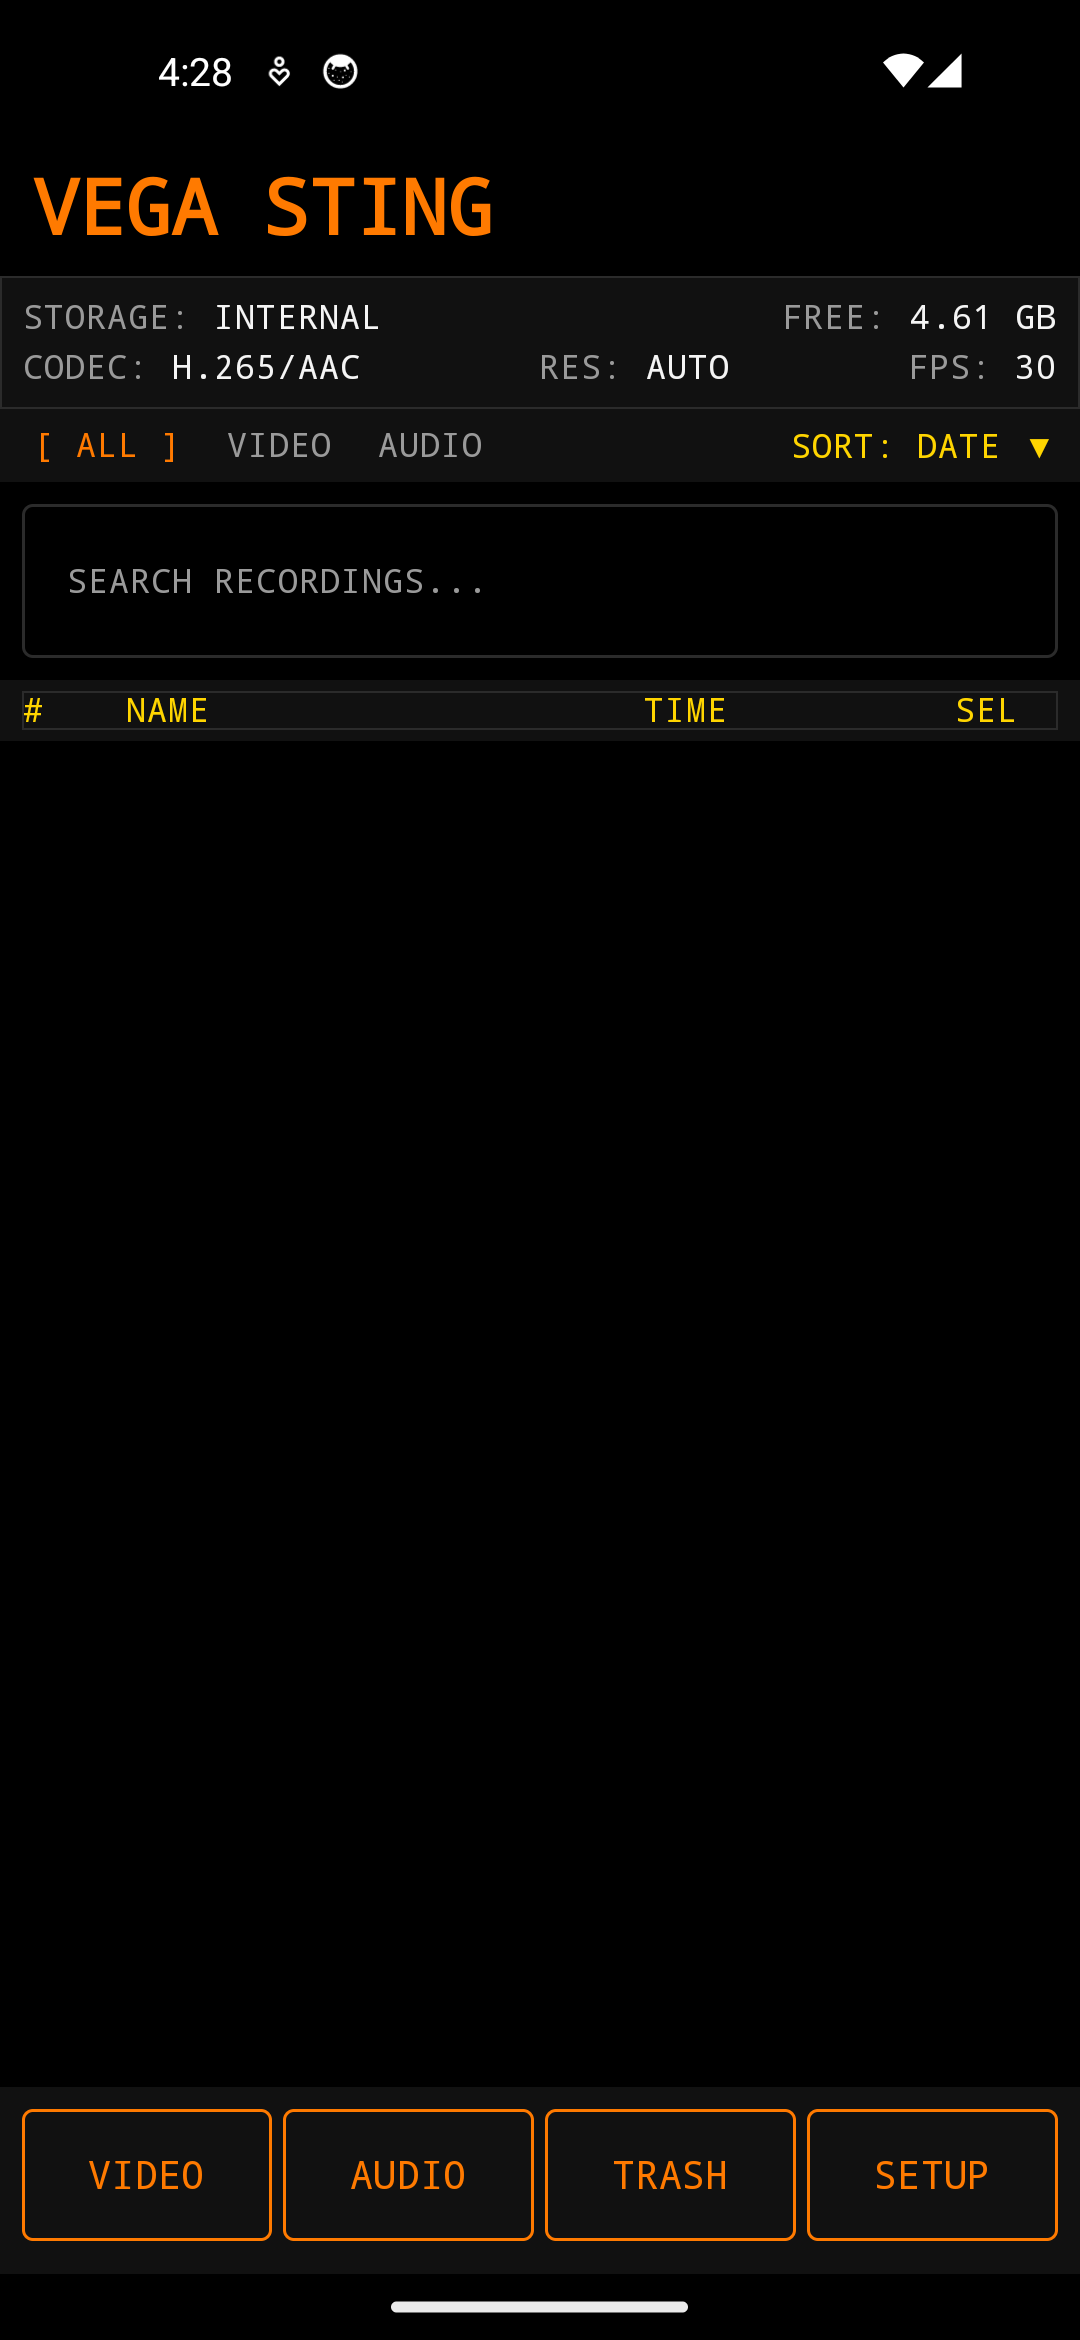
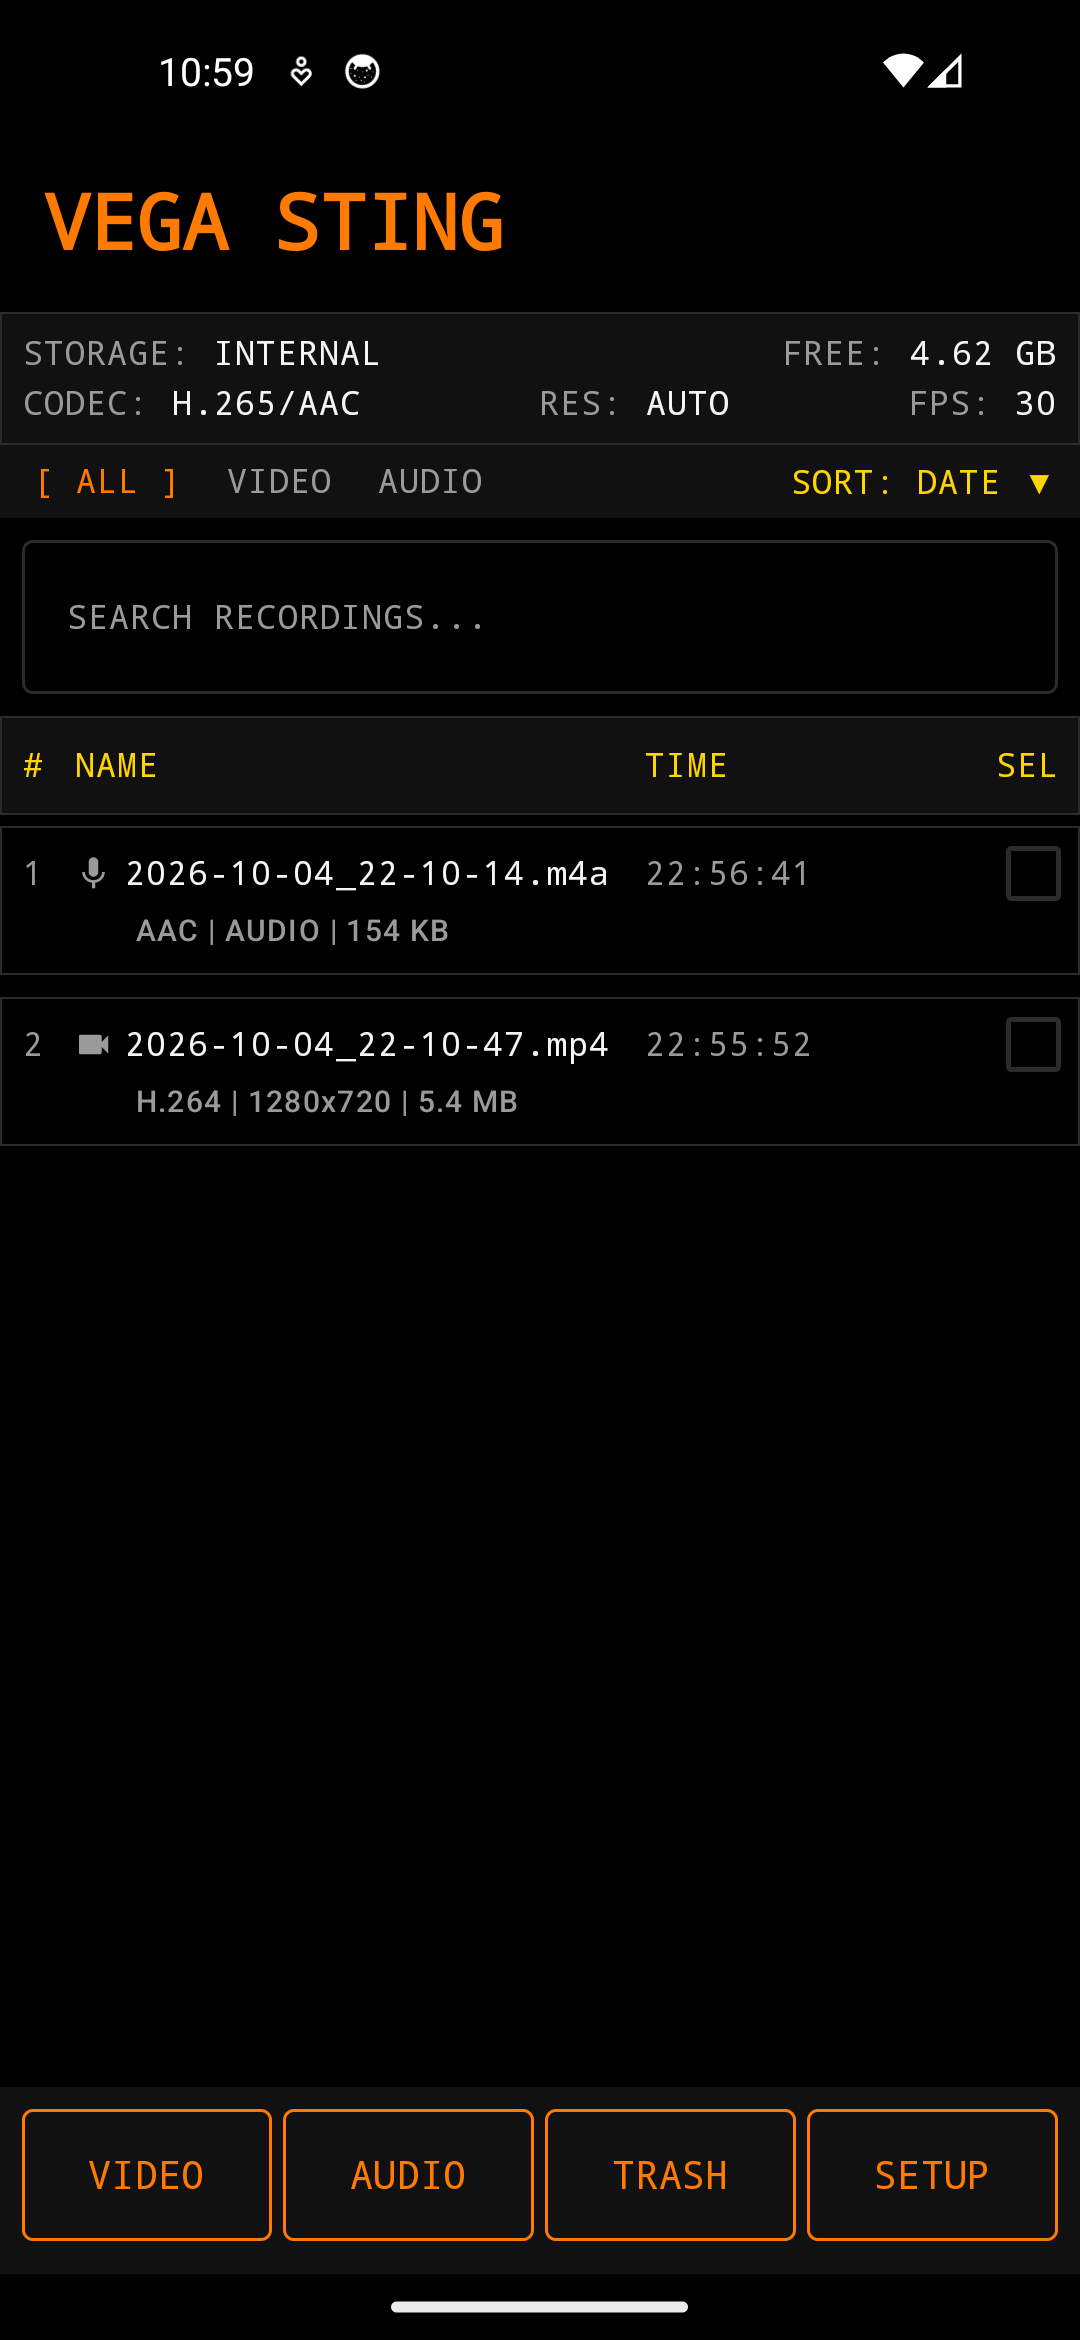
Release 1.0.5: screenshots, widget in widget picker, responsive sizing

diff --git a/README.md b/README.md
@@ -73,7 +73,9 @@ automatically lawful in every case — see
 - **Foreground recording** that keeps camera and microphone running even
   with the screen off.
 - **Quick Settings tile** and a **home-screen widget** and app
-  **shortcuts** for starting a recording quickly.
+  **shortcuts** for starting a recording quickly. The widget scales to the
+  full widget area and the notification carries a **STOP** action for ending
+  the recording without opening the app.
 - **Local storage** on internal, SD card or USB OTG, with storage health
   checks and a clear/free indicator.
 - **Trash with a 30-day retention** sweep, restore, empty and permanent
@@ -98,7 +100,7 @@ automatically lawful in every case — see
 
 Get the latest signed release from the
 [Releases page](https://github.com/Kvijay199428/VEGA-STING/releases/latest),
-and pick the asset named **`vega-sting-<versionName>.apk`** (e.g. `vega-sting-1.0.4.apk`).
+and pick the asset named **`vega-sting-<versionName>.apk`** (e.g. `vega-sting-1.0.5.apk`).
 
 ```bash
 sha256sum vega-sting-<versionName>.apk
@@ -179,6 +181,10 @@ unthrottled update check, and shows the version, build and developer.
 | Consent | Trash | Trash selection | Settings |
 |:---:|:---:|:---:|:---:|
 | <img src="docs/screenshots/01-consent.png" width="240" alt="Consent screen"> | <img src="docs/screenshots/05-trash.png" width="240" alt="Trash"> | <img src="docs/screenshots/06-trash-selection.png" width="240" alt="Trash selection"> | <img src="docs/screenshots/07-settings.png" width="240" alt="Settings"> |
+
+| Home-screen widget |
+|:---:|
+| <img src="docs/screenshots/08-widget.png" width="320" alt="VEGA STING home-screen widget"> |
 
 ---
 
